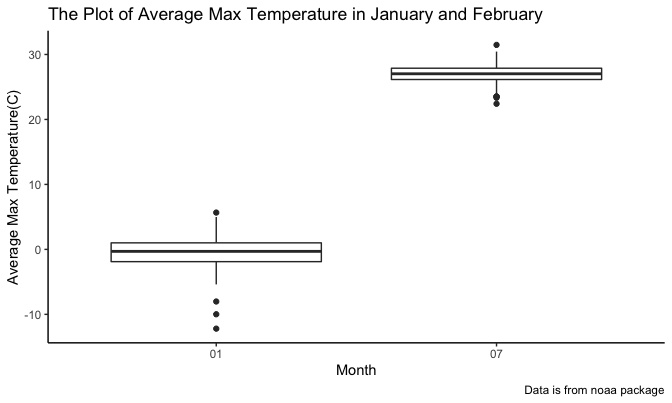
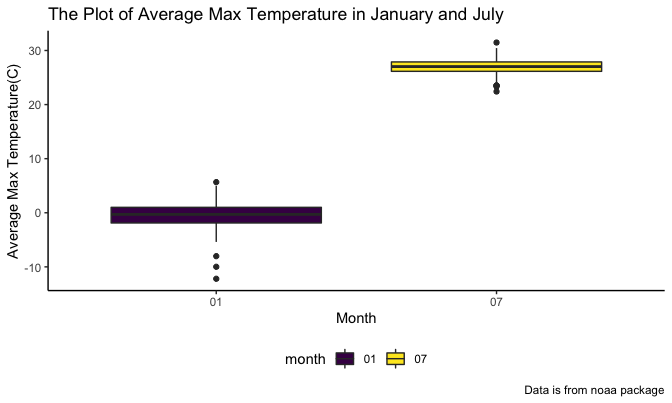
some update in plots

diff --git a/p8105_hw3_ax2173.md b/p8105_hw3_ax2173.md
@@ -320,10 +320,10 @@ ny_noaa %>%
   filter(month == '01' | month == '07')  %>% 
   group_by(id, month) %>% 
     summarize(average_tmax = mean(tmax, na.rm = TRUE)) %>% 
-  ggplot(aes(x = month, y = average_tmax)) +
+  ggplot(aes(x = month, y = average_tmax, fill = month)) +
   geom_boxplot() +
   labs(
-    title = 'The Plot of Average Max Temperature in January and February',
+    title = 'The Plot of Average Max Temperature in January and July',
     x = 'Month',
     y = 'Average Max Temperature(C)',
     caption = 'Data is from noaa package')
@@ -348,7 +348,7 @@ ny_noaa %>%
     names_to = 'temperature_category',
     values_to = 'temperature'
   ) %>% 
-  ggplot(aes(x = temperature_category, y = temperature)) +
+  ggplot(aes(x = temperature_category, y = temperature, fill = temperature_category)) +
   geom_boxplot()  +
   labs(
     title = 'The Plot of Tmax vs Tmin for the Full Dataset',
